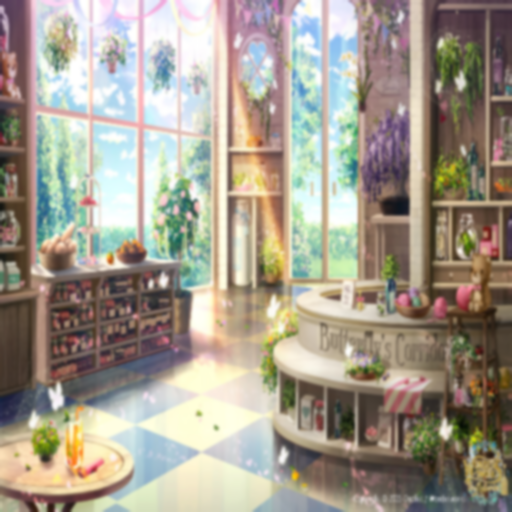
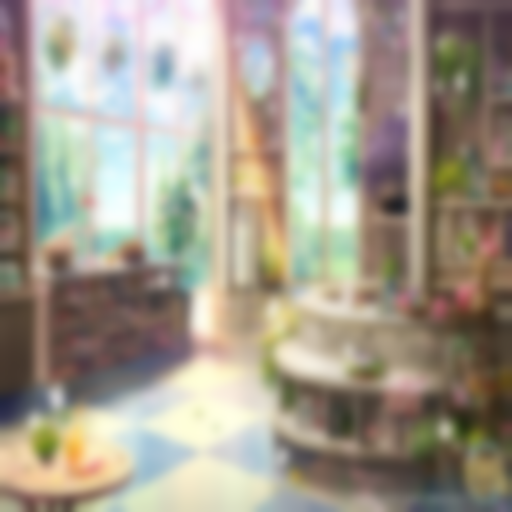
1020

diff --git a/templates/index.html b/templates/index.html
@@ -3,10 +3,6 @@
 <link rel="stylesheet" href="https://maxcdn.bootstrapcdn.com/bootstrap/3.3.6/css/bootstrap.min.css" />        
 <script src="https://ajax.googleapis.com/ajax/libs/jquery/3.1.0/jquery.min.js"></script>
 
-<!-- Template Main CSS File -->
-<link href="{{ url_for('static', filename='css/main.css') }}" rel="stylesheet">
-
-
  <!-- Vendor CSS Files -->
  <link href="{{ url_for('static', filename='vendor/bootstrap/css/bootstrap.min.css') }}" rel="stylesheet">
  <link href="{{ url_for('static', filename='vendor/bootstrap-icons/bootstrap-icons.css') }}" rel="stylesheet">
@@ -14,16 +10,19 @@
  <link href="{{ url_for('static', filename='vendor/glightbox/css/glightbox.min.css') }}" rel="stylesheet">
  <link href="{{ url_for('static', filename='vendor/aos/aos.css') }}" rel="stylesheet">
 
-</head>
-<body>
-<div class="container-fluid">
-    <!--div class = "row justify-content-center"--->
-    {% if showbg == True %}
-        <!-- Background image -->
-        <img src="{{url_for('static', filename='memorypython.jpg')}}">
+ 
+<!-- Template Main CSS File -->
+<link href="{{ url_for('static', filename='css/main.css') }}" rel="stylesheet">
 
-        <div>
-            <form method="post" action="/" enctype="multipart/form-data">
+<!-- font -->
+
+
+</head>
+<body class="bg">
+<div class="container-fluid">
+    {% if showbg == True %}
+    <div class="title"> Upload </div>
+    <form method="post" action="/" enctype="multipart/form-data">
                 <dl>
                     <p>
                         <input type="file" name="file" 
@@ -34,34 +33,32 @@
             <p>
                 <input type="submit" value="上傳" class="btn">
             </p>
-        </form>
-            <p>
-                {% with messages = get_flashed_messages() %}
-                {% if messages %}
-                    <ul>
-                    {% for message in messages %}
-                    <li>{{ message }}</li>
-                    {% endfor %}
-                    </ul>
-                {% endif %}
-                {% endwith %}
-            </p>
-        </div>
+    </form>
+        <p>
+            {% with messages = get_flashed_messages() %}
+            {% if messages %}
+                <ul>
+                {% for message in messages %}
+                <li>{{ message }}</li>
+                {% endfor %}
+                </ul>
+            {% endif %}
+            {% endwith %}
+        </p>
     {% endif %}
-        
-    <!--/div-->
     <!-- ======= Gallery Section ======= -->
         <section id="gallery" class="gallery">
         <div class="container-fluid">
 
-            <div class="row gy-4 justify-content-center">
+            <div class="row gy-5 gx-5 justify-content-center frame">
                 {% for filename in imagelist %}
-                <div class="col-xl-3 col-lg-3 col-md-4 col-sm-6 col-6 mx-1">
+                <div class="col-xl-3 col-lg-3 col-md-4 col-sm-8 col-8">
                 <!---  col-7 mx-1 左右 spacer * .25 -->
-                    <div class="gallery-item">
-                    <img src="./static/gauss/{{ filename }}" alt = "{{ filename }}" class="img-fluid">
+                    <div class="gallery-item galleryimg">
+                    {% set imgName = filename[0:4]+'/'+filename[4:6]+'/'+filename[6:8]+' - '+filename[8:10]+':'+filename[10:12] %}
+                    <img src="./static/gauss/{{ filename }}" alt = "{{ imgName }}" class="img-fluid">
                     <div class="gallery-links d-flex align-items-center justify-content-center">
-                    <a href="./static/uploads/{{ filename }}" title="{{ filename }}" 
+                    <a href="./static/uploads/{{ filename }}" title="{{ imgName }}" 
                     class="glightbox preview-link"><i class="bi bi-arrows-angle-expand"></i></a>
                     </div>
                     </div>

diff --git a/static/css/main.css b/static/css/main.css
@@ -1,8 +1,23 @@
 /*--------------------------------------------------------------
 # General
 --------------------------------------------------------------*/
-.container-fluid{
+/*.container-fluid {
     background-color: #808080;
+  }*/
+  .bg {
+    background-color: #808080;
+  }
+  .title{
+    -ms-transform: translate(0%, 20%);
+    transform: translate(0%, 20%);
+    display: flex;
+    justify-content: center;
+    padding-top: 10%;
+    padding-bottom: 5%;
+    font-size: 10em;
+    font-weight: normal;
+    font-family: 'Courier New', Courier, monospace;
+    color: #ffffff;
   }
 /*custom*/
 .container-fluid .btn2 {  /*上船按鈕*/
@@ -11,8 +26,8 @@
     left: 50%;
     transform: translate(-50%, -50%);
     -ms-transform: translate(-50%, -50%);
-    background-color: rgb(35, 35, 35);
-    color: white;
+    background-color: #343434;  /*背景色*/
+    color: white;  /*沒有選擇檔案 字體顏色*/
     font-size: 16px;
     padding: 5px 5px;
     border: none;
@@ -27,7 +42,7 @@
   left: 50%;
   transform: translate(-50%, -50%);
   -ms-transform: translate(-50%, -50%);
-  background-color: rgb(35, 35, 35);
+  background-color: #343434;
   color: white;
   font-size: 16px;
   padding: 10px 24px;
@@ -40,8 +55,54 @@
     width: 100%;
     height: auto;
   }
+.container-fluid .frame{
+  padding-left: 7%;
+  padding-right: 7%;
+}
+  
+.container-fluid .galleryimg{
+  
+  padding-left: 5%;
+  padding-right: 5%;
+  padding-top: 5%;
+  padding-bottom: 0%;
+  margin: 40px 0px -25px 0px;
+}
 .container-fluid .btn:hover {
   background-color: black;
+}
+
+
+/*使用 gx-5 gy-5*/
+
+
+.gx-5 {
+  --bs-gutter-x: 3rem;
+}
+
+.gy-5 {
+  --bs-gutter-y: 3rem;  
+}
+
+/*修正打開來的顯示窗*/
+
+.glightbox-clean .gdesc-inner {
+  padding: 0px 35% 0px 35%;
+  text-align: center;
+  background-color: rgba(0, 0, 0, 0.75);
+  /* 底色設定成跟壓黑的顏色一樣*/
+  /*壓黑的css: glightbox */
+}
+
+/*字形改這邊*/
+.glightbox-clean .gslide-title {
+  background-color: transparent;
+  font-size: 1.5em;
+  font-weight: normal;
+  font-family: 'Courier New', Courier, monospace;
+  color: #343434;
+  margin-bottom: 19px;
+  line-height: 1.4em;
 }
 
 
@@ -68,10 +129,10 @@
   .gallery .gallery-links .preview-link,
   .gallery .gallery-links .details-link {
     font-size: 20px;
-    color: rgba(255, 255, 255, 0.5);
+    /*color: rgba(255, 255, 255, 0.5);*/
     transition: 0.3s;
     line-height: 1.2;
-    margin: 30px 8px 0 8px;
+    margin: 50px 15px 0 15px;
   }
   
   .gallery .gallery-links .preview-link:hover,
@@ -98,11 +159,11 @@
   }
   
   .glightbox-clean .gslide-description {
-    background: #222425;
+    background: #343434;
   }
   
   .glightbox-clean .gslide-title {
-    color: rgba(255, 255, 255, 0.8);
+    color: #808080;
     margin: 0;
   }
   /*-------------------
@@ -119,7 +180,7 @@
   .gallery-single .portfolio-details-slider .swiper-pagination .swiper-pagination-bullet {
     width: 12px;
     height: 12px;
-    background-color: rgba(255, 255, 255, 0.7);
+    background-color: #808080;
     opacity: 1;
   }
   
@@ -165,7 +226,7 @@
     margin-bottom: 20px;
     padding-bottom: 20px;
     position: relative;
-    font-family: var(--font-secondary);
+    font-family: 'Courier New', Courier, monospace;
   }
 
   
@@ -208,7 +269,7 @@
   }
   
   .gallery-single .portfolio-info .btn-visit:hover {
-    background: #2cbc85;
+    background: #343434;
   }
   
   .gallery-single .portfolio-description h2 {
@@ -216,7 +277,7 @@
     font-weight: 700;
     margin-bottom: 20px;
     color: #fff;
-    font-family: var(--font-secondary);
+    font-family: 'Courier New', Courier, monospace;
   }
   
   .gallery-single .portfolio-description p {

diff --git a/app.py b/app.py
@@ -69,6 +69,7 @@ def display_image():    #filename
     nowhour  = int ( nowtime[8:10])
     nowminute = int ( nowtime[10:12])
 
+    #imgName = file[0:4]+'/'+file[4:6]+'/'+file[6:8]+' - '+file[8:10]+':'+file[10:12]
     for path, subdirs, files in basedir:
         for file in files:
             #模糊後存檔至gauss資料夾
@@ -109,7 +110,7 @@ def display_image():    #filename
 
     file_list.reverse()# 因為是新的插入在前端 所以list反轉
     #response = render_template("index.html", file_list)
-    return render_template("index.html", imagelist=file_list , showbg= False)  
+    return render_template("index.html", imagelist=file_list , showbg = False)  
     
  
 
@@ -167,3 +168,10 @@ def serve_pil_image(pil_img):
 if __name__ == "__main__":
     app.debug = True
     app.run()
+
+
+#一些網頁垃圾
+#    <!--{% if showbg == True %}-->
+#    <!-- Background image -->
+#    <!-- <img src="{{url_for('static', filename='memorypython.jpg')}}"> -->
+#    <!--{% endif %}-->
